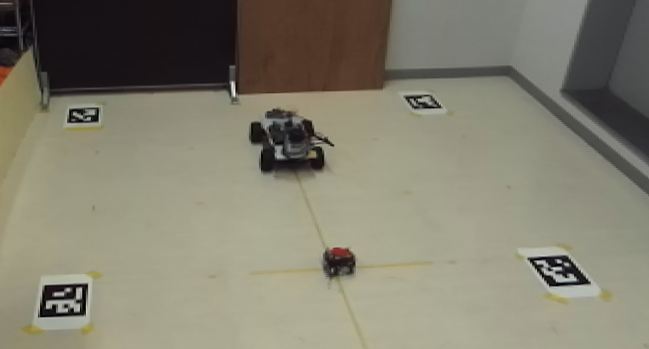
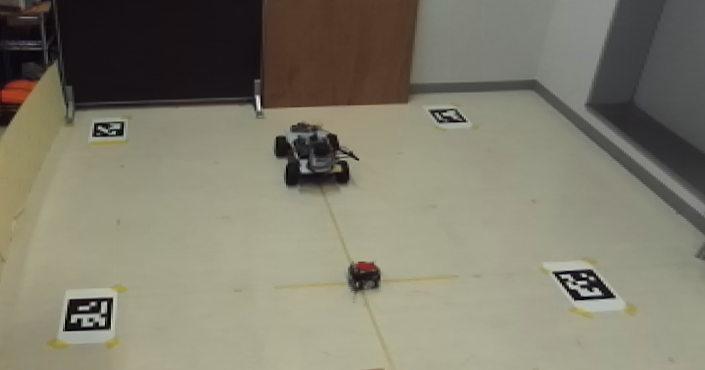
add axis image

diff --git a/trial/for_ROS/testimg.py b/trial/for_ROS/testimg.py
@@ -17,9 +17,10 @@ img = cv2.imread("limage.png")
 K = np.loadtxt("vm_K.csv",delimiter=",").reshape(3,3)
 dist_coef = np.loadtxt('vm_D.csv',delimiter=",")
 vm = vmarker(K=K,dist=dist_coef,markerpos_file="roomA_ground_orig.csv")
-tc_g = vm.getcamerapose(img.copy())
+showimg = img.copy()
+tc_g = vm.getcamerapose(showimg)
 
-
+'''
 # redtracker
 tracker = RedTracker(img.copy(),showimage=1,initialize_with_hand=1)
 tracker.track(img)
@@ -57,8 +58,26 @@ print(tc_g+np.dot(Rc.T,to_c))
 print("Proposed Method")
 print(vm.getobjpose_1(pos,0.085))
 
+'''
+
+'''
+[[ 2.63469052  2.63568878]
+ [ 2.63287401  2.6329    ]]
+Stereo Based Method
+[[ 0.05990568]
+ [-0.02124139]
+ [ 0.13482995]]
+Proposed Method
+[0.00079239195965262466, 0.00085919515168742368]
+'''
+
+
+
 
 rect = cv2.selectROI(img, False)
+vm.showmarker(showimg)
+crop_axis = tracker.extractROI(showimg,rect)
+
 crop=tracker.extractROI(img,rect)
 dcrop=tracker.extractROI(depth,rect)
 dcrop2 = dcrop/np.amax(dcrop)*255.0
@@ -67,5 +86,6 @@ cv2.imshow("crop",crop)
 cv2.imshow("dcrop",dcrop2)
 cv2.waitKey(0)
 
+cv2.imwrite("figures/crop_axis.png",crop_axis)
 cv2.imwrite("figures/crop.png",crop)
 cv2.imwrite("figures/crop_depth.png",dcrop2)
